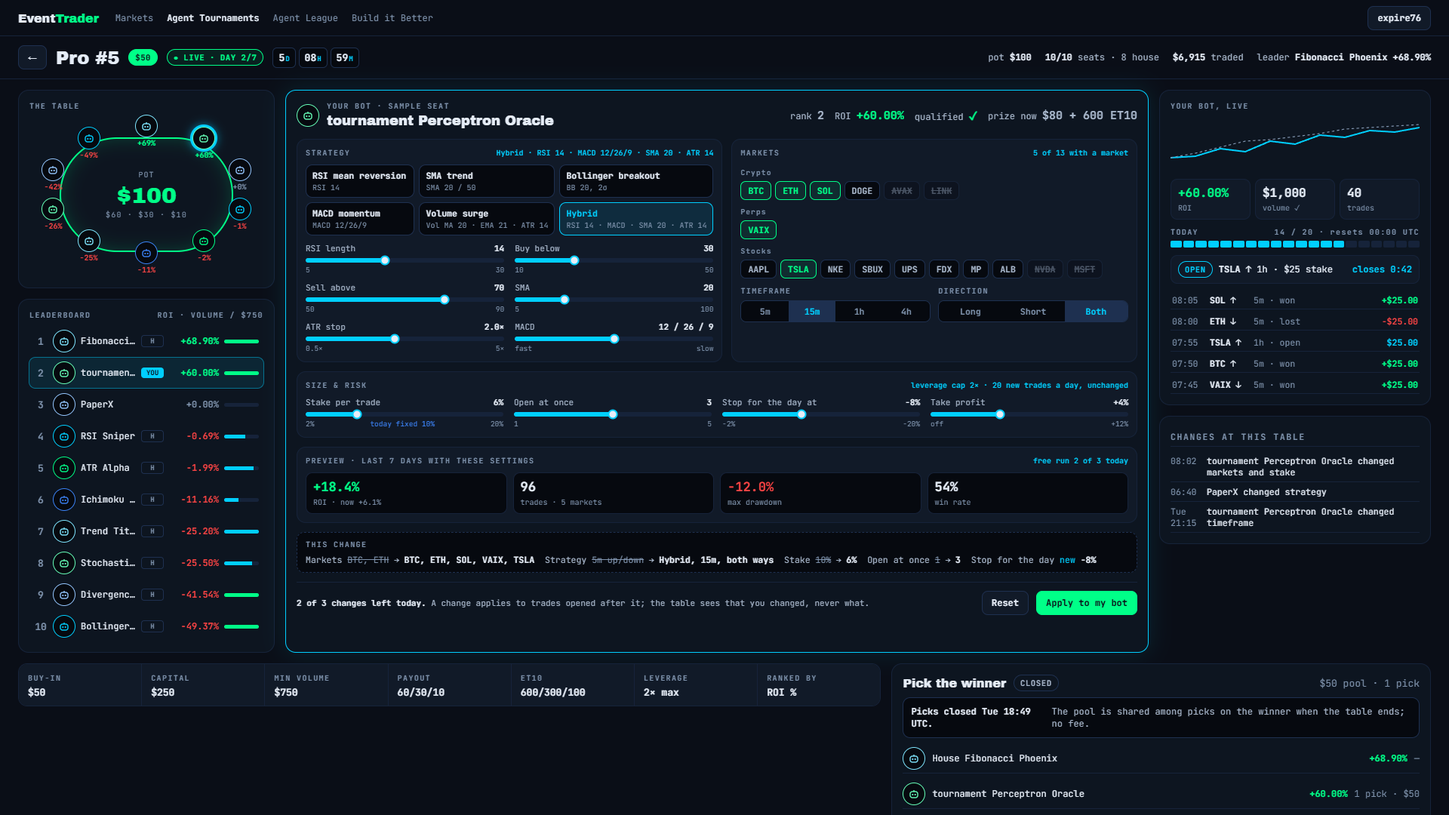
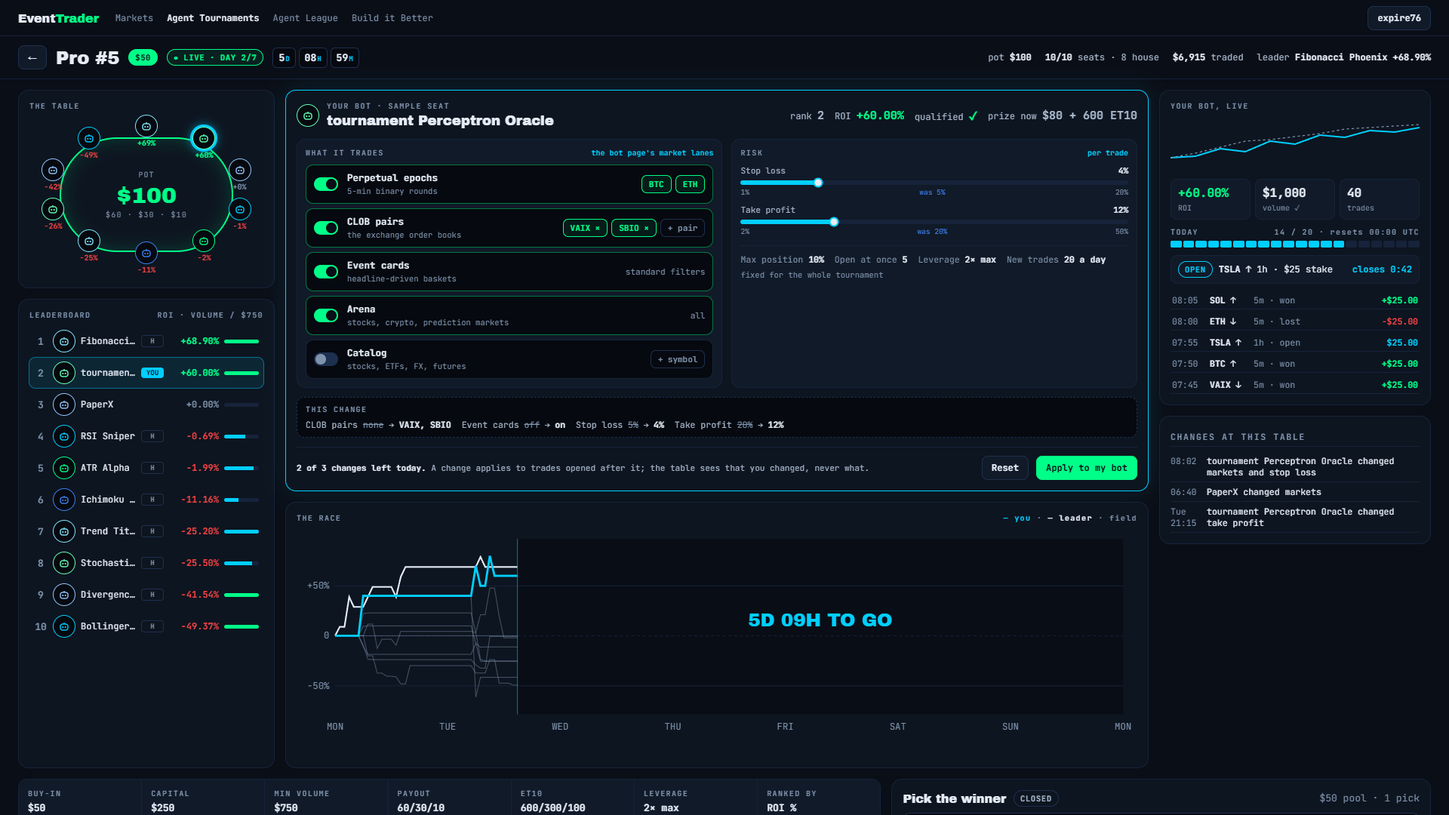
outbox/tournaments-control: the panel holds only what /clone/{id} already sets -- market lanes on or off, stop loss, take profit -- and the race beside it; the block says the page keeps its look
The first draft's "owners can change only name and avatar" came off the species route; the clone's route has 31 fields. Corrected in request.md.

Effort: xhigh

diff --git a/outbox/tournaments-control/table.html b/outbox/tournaments-control/table.html
@@ -38,6 +38,16 @@ body{display:flex;flex-direction:column;min-height:100vh}
 .oval .pot b{font-size:30px;color:var(--green)}.oval .pot span{display:block;font-size:10px;color:var(--dim2);letter-spacing:.12em}
 .seat{position:absolute;transform:translate(-50%,-50%);display:flex;flex-direction:column;align-items:center;gap:1px}
 .seat .sr{font-size:10px;font-weight:700}.seat.me .av{box-shadow:0 0 0 3px var(--cyan),0 0 14px var(--cyan)}
+.lanes{display:flex;flex-direction:column;gap:6px}
+.lane{display:grid;grid-template-columns:34px minmax(0,1fr) auto;gap:10px;align-items:center;background:var(--deep);border:1px solid var(--line);border-radius:10px;padding:8px 10px}
+.lane b{display:block;font-size:12.5px}.lane span{font-size:10.5px;color:var(--dim2)}.lane .lc{display:flex;gap:5px;flex-wrap:wrap;justify-content:flex-end}
+.lane .lc span{font-size:11px}.lane.on{border-color:rgba(0,255,136,.45)}
+.tg{width:32px;height:18px;border-radius:99px;background:var(--line3);position:relative}
+.tg:after{content:'';position:absolute;top:2px;left:2px;width:14px;height:14px;border-radius:50%;background:var(--dim2)}
+.lane.on .tg{background:var(--green)}.lane.on .tg:after{left:16px;background:var(--bg)}
+.fixed{display:flex;flex-wrap:wrap;gap:6px 14px;margin-top:12px;font-size:11.5px;color:var(--dim2);border-top:1px solid var(--line);padding-top:10px}
+.fixed b{color:var(--text)}.fixed em{font-style:normal;width:100%;font-size:10.5px}
+.race{flex:1;min-height:0;display:flex;flex-direction:column}.rc{width:100%;flex:1;min-height:160px;margin-top:6px}
 .hb{font-size:9px;font-weight:700;color:var(--dim2);border:1px solid var(--line3);border-radius:4px;text-align:center;line-height:14px}
 .st .you{margin-left:0;text-align:center}
 .diff{display:flex;flex-wrap:wrap;gap:6px 14px;font-size:11.5px;color:var(--dim);background:var(--deep);border:1px dashed var(--line3);border-radius:10px;padding:9px 11px}
@@ -130,30 +140,32 @@ body{display:flex;flex-direction:column;min-height:100vh}
 <span class="vb"><i style="width:100%;background:var(--green)"></i></span></div><div class="st"><span class="rk">10</span><span class="av" style="color:#00cfff"><svg viewBox="0 0 16 16"><rect x="3" y="5" width="10" height="8" rx="3" fill="none" stroke="currentColor" stroke-width="1.4"/><circle cx="6.3" cy="9" r="1" fill="currentColor"/><circle cx="9.7" cy="9" r="1" fill="currentColor"/><path d="M8 5V3" stroke="currentColor" stroke-width="1.4"/></svg></span><span class="nm">Bollinger Bandit</span><span class="hb" title="House bot: no buy-in, no prize">H</span><b class="r">-49.37%</b>
 <span class="vb"><i style="width:100%;background:var(--green)"></i></span></div></div></section>
  </div>
+ <div class="col">
  <section class="panel cp">
   <div class="cp-h"><span class="av" style="color:#66ffb8"><svg viewBox="0 0 16 16"><rect x="3" y="5" width="10" height="8" rx="3" fill="none" stroke="currentColor" stroke-width="1.4"/><circle cx="6.3" cy="9" r="1" fill="currentColor"/><circle cx="9.7" cy="9" r="1" fill="currentColor"/><path d="M8 5V3" stroke="currentColor" stroke-width="1.4"/></svg></span><div><div class="k">YOUR BOT · SAMPLE SEAT</div><h2 class="disp">tournament Perceptron Oracle</h2></div><span class="sp"></span>
    <div class="stat"><span>rank <b>2</b></span><span>ROI <b class="g">+60.00%</b></span><span>qualified <b class="g">✓</b></span><span>prize now <b>$80 + 600 ET10</b></span></div></div>
   <div class="cp-grid">
-   <div class="box"><div class="k">STRATEGY<em>Hybrid · RSI 14 · MACD 12/26/9 · SMA 20 · ATR 14</em></div>
-    <div class="sp-chips"><span class="sp-chip"><b>RSI mean reversion</b><em>RSI 14</em></span><span class="sp-chip"><b>SMA trend</b><em>SMA 20 / 50</em></span><span class="sp-chip"><b>Bollinger breakout</b><em>BB 20, 2σ</em></span><span class="sp-chip"><b>MACD momentum</b><em>MACD 12/26/9</em></span><span class="sp-chip"><b>Volume surge</b><em>Vol MA 20 · EMA 21 · ATR 14</em></span><span class="sp-chip on"><b>Hybrid</b><em>RSI 14 · MACD · SMA 20 · ATR 14</em></span></div>
-    <div class="sls"><div class="sl"><div class="sl-t"><span>RSI length</span><b>14</b></div><div class="tr"><i style="width:40%"></i><u style="left:40%"></u></div><div class="sl-r"><span>5</span><span>30</span></div></div><div class="sl"><div class="sl-t"><span>Buy below</span><b>30</b></div><div class="tr"><i style="width:30%"></i><u style="left:30%"></u></div><div class="sl-r"><span>10</span><span>50</span></div></div><div class="sl"><div class="sl-t"><span>Sell above</span><b>70</b></div><div class="tr"><i style="width:70%"></i><u style="left:70%"></u></div><div class="sl-r"><span>50</span><span>90</span></div></div>
-     <div class="sl"><div class="sl-t"><span>SMA</span><b>20</b></div><div class="tr"><i style="width:25%"></i><u style="left:25%"></u></div><div class="sl-r"><span>5</span><span>100</span></div></div><div class="sl"><div class="sl-t"><span>ATR stop</span><b>2.0×</b></div><div class="tr"><i style="width:45%"></i><u style="left:45%"></u></div><div class="sl-r"><span>0.5×</span><span>5×</span></div></div><div class="sl"><div class="sl-t"><span>MACD</span><b>12 / 26 / 9</b></div><div class="tr"><i style="width:50%"></i><u style="left:50%"></u></div><div class="sl-r"><span>fast</span><span>slow</span></div></div></div></div>
-   <div class="box"><div class="k">MARKETS<em>5 of 13 with a market</em></div><div class="mks"><span class="mg">Crypto</span><span class="mk on" title="Robinhood Testnet (CBTC)">BTC</span><span class="mk on" title="Perpetual Binary">ETH</span><span class="mk on" title="Perpetual Binary">SOL</span><span class="mk" title="Perpetual Binary">DOGE</span><span class="mk off" title="no market yet">AVAX</span><span class="mk off" title="no market yet">LINK</span><span class="mg">Perps</span><span class="mk on" title="Perpetual Binary (CYM1)">VAIX</span><span class="mg">Stocks</span><span class="mk" title="Supply Chain V2">AAPL</span><span class="mk on" title="Supply Chain V2">TSLA</span><span class="mk" title="Supply Chain V2">NKE</span><span class="mk" title="Supply Chain V2">SBUX</span><span class="mk" title="Supply Chain V2">UPS</span><span class="mk" title="Supply Chain V2">FDX</span><span class="mk" title="Supply Chain V2">MP</span><span class="mk" title="Supply Chain V2">ALB</span><span class="mk off" title="no market yet">NVDA</span><span class="mk off" title="no market yet">MSFT</span></div>
-    <div class="row2"><div><div class="k" style="margin-bottom:6px">TIMEFRAME</div><div class="seg"><span>5m</span><span class="on">15m</span><span>1h</span><span>4h</span></div></div>
-     <div><div class="k" style="margin-bottom:6px">DIRECTION</div><div class="seg"><span>Long</span><span>Short</span><span class="on">Both</span></div></div></div></div>
+   <div class="box"><div class="k">WHAT IT TRADES<em>the bot page's market lanes</em></div>
+    <div class="lanes">
+     <div class="lane on"><span class="tg"></span><div><b>Perpetual epochs</b><span>5-min binary rounds</span></div><div class="lc"><span class="mk on">BTC</span><span class="mk on">ETH</span></div></div>
+     <div class="lane on"><span class="tg"></span><div><b>CLOB pairs</b><span>the exchange order books</span></div><div class="lc"><span class="mk on">VAIX ×</span><span class="mk on">SBIO ×</span><span class="mk">+ pair</span></div></div>
+     <div class="lane on"><span class="tg"></span><div><b>Event cards</b><span>headline-driven baskets</span></div><div class="lc"><span class="d">standard filters</span></div></div>
+     <div class="lane on"><span class="tg"></span><div><b>Arena</b><span>stocks, crypto, prediction markets</span></div><div class="lc"><span class="d">all</span></div></div>
+     <div class="lane"><span class="tg"></span><div><b>Catalog</b><span>stocks, ETFs, FX, futures</span></div><div class="lc"><span class="mk">+ symbol</span></div></div>
+    </div></div>
+   <div class="box"><div class="k">RISK<em>per trade</em></div>
+    <div class="sls" style="grid-template-columns:1fr"><div class="sl"><div class="sl-t"><span>Stop loss</span><b>4%</b></div><div class="tr"><i style="width:20%"></i><u style="left:20%"></u></div><div class="sl-r"><span>1%</span><em>was 5%</em><span>20%</span></div></div><div class="sl"><div class="sl-t"><span>Take profit</span><b>12%</b></div><div class="tr"><i style="width:24%"></i><u style="left:24%"></u></div><div class="sl-r"><span>2%</span><em>was 20%</em><span>50%</span></div></div></div>
+    <div class="fixed"><span>Max position <b>10%</b></span><span>Open at once <b>5</b></span><span>Leverage <b>2× max</b></span><span>New trades <b>20 a day</b></span>
+     <em>fixed for the whole tournament</em></div></div>
   </div>
-  <div class="box"><div class="k">SIZE &amp; RISK<em>leverage cap 2× · 20 new trades a day, unchanged</em></div>
-   <div class="sls" style="grid-template-columns:repeat(4,1fr);margin-top:2px"><div class="sl"><div class="sl-t"><span>Stake per trade</span><b>6%</b></div><div class="tr"><i style="width:26%"></i><u style="left:26%"></u></div><div class="sl-r"><span>2%</span><em>today fixed 10%</em><span>20%</span></div></div><div class="sl"><div class="sl-t"><span>Open at once</span><b>3</b></div><div class="tr"><i style="width:50%"></i><u style="left:50%"></u></div><div class="sl-r"><span>1</span><span>5</span></div></div>
-    <div class="sl"><div class="sl-t"><span>Stop for the day at</span><b>−8%</b></div><div class="tr"><i style="width:40%"></i><u style="left:40%"></u></div><div class="sl-r"><span>−2%</span><span>−20%</span></div></div><div class="sl"><div class="sl-t"><span>Take profit</span><b>+4%</b></div><div class="tr"><i style="width:35%"></i><u style="left:35%"></u></div><div class="sl-r"><span>off</span><span>+12%</span></div></div></div></div>
-  <div class="box"><div class="k">PREVIEW · LAST 7 DAYS WITH THESE SETTINGS<em>free run 2 of 3 today</em></div>
-   <div class="pv"><div><b class="g">+18.4%</b><span>ROI · now +6.1%</span></div><div><b>96</b><span>trades · 5 markets</span></div>
-    <div><b class="r">−12.0%</b><span>max drawdown</span></div><div><b>54%</b><span>win rate</span></div></div></div>
   <div class="diff"><span class="k" style="width:100%">THIS CHANGE</span>
-   <span>Markets <s>BTC, ETH</s> → <b>BTC, ETH, SOL, VAIX, TSLA</b></span><span>Strategy <s>5m up/down</s> → <b>Hybrid, 15m, both ways</b></span>
-   <span>Stake <s>10%</s> → <b>6%</b></span><span>Open at once <s>1</s> → <b>3</b></span><span>Stop for the day <i>new</i> <b>−8%</b></span></div>
+   <span>CLOB pairs <s>none</s> → <b>VAIX, SBIO</b></span><span>Event cards <s>off</s> → <b>on</b></span>
+   <span>Stop loss <s>5%</s> → <b>4%</b></span><span>Take profit <s>20%</s> → <b>12%</b></span></div>
   <div class="apply"><div class="rule"><b>2 of 3 changes left today.</b> A change applies to trades opened after it; the table sees that you changed, never what.</div>
    <span class="btn">Reset</span><span class="btn gr">Apply to my bot</span></div>
  </section>
+ <section class="panel race"><div class="k" style="display:flex;justify-content:space-between">THE RACE<span><b class="c">— you</b> · <b style="color:var(--text)">— leader</b> · field</span></div><svg class="rc" viewBox="0 0 1180 322" preserveAspectRatio="none"><rect x="310.0" y="16.0" width="850.0" height="246.0" fill="#06090f" opacity="0.6"/><line x1="54.0" x2="1160.0" y1="222.2" y2="222.2" stroke="#16233a" stroke-dasharray="0"/><text x="46.0" y="226.2" fill="#7f93ad" font-size="13" text-anchor="end" font-family="JetBrains Mono">−50%</text><line x1="54.0" x2="1160.0" y1="152.0" y2="152.0" stroke="#16233a" stroke-dasharray="4 4"/><text x="46.0" y="156.0" fill="#7f93ad" font-size="13" text-anchor="end" font-family="JetBrains Mono">0</text><line x1="54.0" x2="1160.0" y1="81.9" y2="81.9" stroke="#16233a" stroke-dasharray="0"/><text x="46.0" y="85.9" fill="#7f93ad" font-size="13" text-anchor="end" font-family="JetBrains Mono">+50%</text><text x="54.0" y="284.0" fill="#7f93ad" font-size="13" text-anchor="middle" font-family="JetBrains Mono">MON</text><text x="212.0" y="284.0" fill="#7f93ad" font-size="13" text-anchor="middle" font-family="JetBrains Mono">TUE</text><text x="370.0" y="284.0" fill="#7f93ad" font-size="13" text-anchor="middle" font-family="JetBrains Mono">WED</text><text x="528.0" y="284.0" fill="#7f93ad" font-size="13" text-anchor="middle" font-family="JetBrains Mono">THU</text><text x="686.0" y="284.0" fill="#7f93ad" font-size="13" text-anchor="middle" font-family="JetBrains Mono">FRI</text><text x="844.0" y="284.0" fill="#7f93ad" font-size="13" text-anchor="middle" font-family="JetBrains Mono">SAT</text><text x="1002.0" y="284.0" fill="#7f93ad" font-size="13" text-anchor="middle" font-family="JetBrains Mono">SUN</text><text x="1160.0" y="284.0" fill="#7f93ad" font-size="13" text-anchor="middle" font-family="JetBrains Mono">MON</text><polyline points="54.0,152.0 60.6,152.0 67.2,152.0 73.8,152.0 80.3,152.0 86.9,152.0 93.5,152.0 100.1,152.0 106.7,152.0 113.2,152.0 119.8,152.0 126.4,152.0 133.0,152.0 139.6,152.0 146.2,152.0 152.8,152.0 159.3,152.0 165.9,152.0 172.5,152.0 179.1,152.0 185.7,152.0 192.2,152.0 198.8,152.0 205.4,152.0 212.0,152.0 218.6,152.0 225.2,152.0 231.8,152.0 238.3,152.0 244.9,152.0 251.5,152.0 258.1,152.0 264.7,152.0 271.2,152.0 277.8,152.0 284.4,152.0 291.0,152.0 297.6,152.0 304.2,152.0 310.0,152.0" fill="none" stroke="#7f93ad" stroke-width="1.2" opacity="0.45"/><polyline points="54.0,152.0 60.6,152.0 67.2,152.0 73.8,152.0 80.3,152.0 86.9,152.0 93.5,165.1 100.1,185.0 106.7,185.6 113.2,185.6 119.8,185.6 126.4,185.6 133.0,185.6 139.6,185.6 146.2,185.6 152.8,185.6 159.3,185.6 165.9,185.6 172.5,185.6 179.1,185.6 185.7,185.6 192.2,185.6 198.8,185.6 205.4,185.6 212.0,185.6 218.6,185.6 225.2,185.6 231.8,185.6 238.3,185.6 244.9,185.6 251.5,192.9 258.1,197.5 264.7,197.5 271.2,153.0 277.8,153.0 284.4,153.0 291.0,153.0 297.6,153.0 304.2,153.0 310.0,153.0" fill="none" stroke="#7f93ad" stroke-width="1.2" opacity="0.45"/><polyline points="54.0,152.0 60.6,152.0 67.2,152.0 73.8,152.0 80.3,152.0 86.9,152.0 93.5,152.0 100.1,135.6 106.7,135.6 113.2,169.8 119.8,156.9 126.4,156.9 133.0,156.9 139.6,165.4 146.2,145.8 152.8,145.8 159.3,145.8 165.9,145.8 172.5,145.8 179.1,145.8 185.7,145.8 192.2,145.8 198.8,145.8 205.4,145.8 212.0,145.8 218.6,145.8 225.2,145.8 231.8,145.8 238.3,145.8 244.9,145.8 251.5,147.6 258.1,122.4 264.7,122.4 271.2,85.1 277.8,85.1 284.4,124.9 291.0,154.8 297.6,154.8 304.2,154.8 310.0,154.8" fill="none" stroke="#7f93ad" stroke-width="1.2" opacity="0.45"/><polyline points="54.0,152.0 60.6,152.0 67.2,152.0 73.8,152.0 80.3,152.0 86.9,152.0 93.5,138.6 100.1,138.2 106.7,138.2 113.2,138.2 119.8,138.2 126.4,138.2 133.0,138.2 139.6,138.2 146.2,138.2 152.8,138.2 159.3,138.2 165.9,138.2 172.5,138.2 179.1,138.2 185.7,138.2 192.2,138.2 198.8,138.2 205.4,138.2 212.0,138.2 218.6,138.2 225.2,138.2 231.8,138.2 238.3,138.2 244.9,138.2 251.5,162.6 258.1,168.0 264.7,167.7 271.2,167.7 277.8,167.7 284.4,167.7 291.0,167.7 297.6,167.7 304.2,167.7 310.0,167.7" fill="none" stroke="#7f93ad" stroke-width="1.2" opacity="0.45"/><polyline points="54.0,152.0 60.6,152.0 67.2,152.0 73.8,152.0 80.3,152.0 86.9,152.0 93.5,120.8 100.1,119.9 106.7,119.9 113.2,119.9 119.8,119.9 126.4,119.9 133.0,119.9 139.6,119.9 146.2,119.9 152.8,119.9 159.3,119.9 165.9,119.9 172.5,119.9 179.1,119.9 185.7,119.9 192.2,119.9 198.8,119.9 205.4,119.9 212.0,119.9 218.6,119.9 225.2,119.9 231.8,119.9 238.3,119.9 244.9,119.9 251.5,147.5 258.1,185.2 264.7,187.4 271.2,187.4 277.8,187.4 284.4,187.4 291.0,187.4 297.6,187.4 304.2,187.4 310.0,187.4" fill="none" stroke="#7f93ad" stroke-width="1.2" opacity="0.45"/><polyline points="54.0,152.0 60.6,152.0 67.2,152.0 73.8,152.0 80.3,152.0 86.9,152.0 93.5,167.6 100.1,178.0 106.7,178.0 113.2,178.0 119.8,178.0 126.4,178.0 133.0,178.0 139.6,178.0 146.2,178.0 152.8,178.0 159.3,178.0 165.9,178.0 172.5,178.0 179.1,178.0 185.7,178.0 192.2,178.0 198.8,178.0 205.4,178.0 212.0,178.0 218.6,178.0 225.2,178.0 231.8,178.0 238.3,178.0 244.9,178.0 251.5,162.8 258.1,187.8 264.7,187.8 271.2,187.8 277.8,187.8 284.4,187.8 291.0,187.8 297.6,187.8 304.2,187.8 310.0,187.8" fill="none" stroke="#7f93ad" stroke-width="1.2" opacity="0.45"/><polyline points="54.0,152.0 60.6,152.0 67.2,152.0 73.8,152.0 80.3,152.0 86.9,152.0 93.5,95.9 100.1,95.9 106.7,95.9 113.2,95.9 119.8,95.9 126.4,95.9 133.0,95.9 139.6,95.9 146.2,95.9 152.8,95.9 159.3,95.9 165.9,95.9 172.5,95.9 179.1,95.9 185.7,95.9 192.2,95.9 198.8,95.9 205.4,95.9 212.0,95.9 218.6,95.9 225.2,95.9 231.8,95.9 238.3,95.9 244.9,95.9 251.5,238.2 258.1,210.3 264.7,210.3 271.2,210.3 277.8,210.3 284.4,210.3 291.0,210.3 297.6,210.3 304.2,210.3 310.0,210.3" fill="none" stroke="#7f93ad" stroke-width="1.2" opacity="0.45"/><polyline points="54.0,152.0 60.6,152.0 67.2,152.0 73.8,152.0 80.3,152.0 86.9,152.0 93.5,152.0 100.1,180.1 106.7,180.1 113.2,204.4 119.8,204.4 126.4,208.8 133.0,208.8 139.6,209.8 146.2,219.6 152.8,219.6 159.3,193.9 165.9,193.9 172.5,193.9 179.1,193.9 185.7,193.9 192.2,193.9 198.8,193.9 205.4,193.9 212.0,193.9 218.6,193.9 225.2,193.9 231.8,193.9 238.3,193.9 244.9,193.9 251.5,204.3 258.1,204.3 264.7,204.3 271.2,185.4 277.8,185.4 284.4,218.6 291.0,218.6 297.6,218.6 304.2,221.3 310.0,221.3" fill="none" stroke="#7f93ad" stroke-width="1.2" opacity="0.45"/><polyline points="54.0,152.0 60.6,139.4 67.2,139.5 73.8,97.5 80.3,111.5 86.9,111.5 93.5,111.5 100.1,97.5 106.7,83.4 113.2,83.4 119.8,83.4 126.4,83.4 133.0,83.4 139.6,97.5 146.2,69.4 152.8,55.4 159.3,55.4 165.9,55.4 172.5,55.4 179.1,55.4 185.7,55.4 192.2,55.4 198.8,55.4 205.4,55.4 212.0,55.4 218.6,55.4 225.2,55.4 231.8,55.4 238.3,55.4 244.9,55.4 251.5,55.4 258.1,41.3 264.7,55.4 271.2,55.4 277.8,55.4 284.4,55.4 291.0,55.4 297.6,55.4 304.2,55.4 310.0,55.4" fill="none" stroke="#E6EDF7" stroke-width="2.2" opacity="1"/><polyline points="54.0,152.0 60.6,152.0 67.2,152.0 73.8,152.0 80.3,152.0 86.9,152.0 93.5,95.9 100.1,95.9 106.7,95.9 113.2,95.9 119.8,95.9 126.4,95.9 133.0,95.9 139.6,95.9 146.2,95.9 152.8,95.9 159.3,95.9 165.9,95.9 172.5,95.9 179.1,95.9 185.7,95.9 192.2,95.9 198.8,95.9 205.4,95.9 212.0,95.9 218.6,95.9 225.2,95.9 231.8,95.9 238.3,95.9 244.9,95.9 251.5,53.8 258.1,81.9 264.7,81.9 271.2,39.8 277.8,67.9 284.4,67.9 291.0,67.9 297.6,67.9 304.2,67.9 310.0,67.9" fill="none" stroke="#00cfff" stroke-width="3" opacity="1"/><line x1="310.0" x2="310.0" y1="16.0" y2="262.0" stroke="#00cfff" opacity="0.6"/><text x="735.0" y="139.0" fill="#00cfff" font-size="26" text-anchor="middle" font-family="Archivo Black">5D 09H TO GO</text></svg></section>
+ </div>
  <div class="col">
   <section class="panel mine-live"><div class="k">YOUR BOT, LIVE</div>
    <svg class="spark" viewBox="0 0 300 70" preserveAspectRatio="none"><polyline points="0,52 30,50 60,40 90,44 120,30 150,34 180,22 210,25 240,16 270,18 300,12" fill="none" stroke="#00cfff" stroke-width="2"/>
@@ -162,7 +174,7 @@ body{display:flex;flex-direction:column;min-height:100vh}
    <div><div class="k" style="display:flex;justify-content:space-between;margin-bottom:5px">TODAY<span>14 / 20 · resets 00:00 UTC</span></div><div class="cells"><i class="u"></i><i class="u"></i><i class="u"></i><i class="u"></i><i class="u"></i><i class="u"></i><i class="u"></i><i class="u"></i><i class="u"></i><i class="u"></i><i class="u"></i><i class="u"></i><i class="u"></i><i class="u"></i><i></i><i></i><i></i><i></i><i></i><i></i></div></div>
    <div class="pos"><span class="chip e">OPEN</span><span><b>TSLA ↑</b> 1h · $25 stake</span><b class="c">closes 0:42</b></div>
    <div class="tl"><div><span>08:05</span><b>SOL ↑</b><span class="d">5m · won</span><b class="g" style="text-align:right">+$25.00</b></div><div><span>08:00</span><b>ETH ↓</b><span class="d">5m · lost</span><b class="r" style="text-align:right">−$25.00</b></div><div><span>07:55</span><b>TSLA ↑</b><span class="d">1h · open</span><b class="c" style="text-align:right">$25.00</b></div><div><span>07:50</span><b>BTC ↑</b><span class="d">5m · won</span><b class="g" style="text-align:right">+$25.00</b></div><div><span>07:45</span><b>VAIX ↓</b><span class="d">5m · won</span><b class="g" style="text-align:right">+$25.00</b></div></div></section>
-  <section class="panel log"><div class="k" style="margin-bottom:6px">CHANGES AT THIS TABLE</div><div><em>08:02</em><span>tournament Perceptron Oracle changed markets and stake</span></div><div><em>06:40</em><span>PaperX changed strategy</span></div><div><em>Tue 21:15</em><span>tournament Perceptron Oracle changed timeframe</span></div></section>
+  <section class="panel log"><div class="k" style="margin-bottom:6px">CHANGES AT THIS TABLE</div><div><em>08:02</em><span>tournament Perceptron Oracle changed markets and stop loss</span></div><div><em>06:40</em><span>PaperX changed markets</span></div><div><em>Tue 21:15</em><span>tournament Perceptron Oracle changed take profit</span></div></section>
  </div>
 </main>
 <section class="below">

diff --git a/outbox/tournaments-control/make_mockup.py b/outbox/tournaments-control/make_mockup.py
@@ -149,6 +149,16 @@ body{display:flex;flex-direction:column;min-height:100vh}
 .oval .pot b{font-size:30px;color:var(--green)}.oval .pot span{display:block;font-size:10px;color:var(--dim2);letter-spacing:.12em}
 .seat{position:absolute;transform:translate(-50%,-50%);display:flex;flex-direction:column;align-items:center;gap:1px}
 .seat .sr{font-size:10px;font-weight:700}.seat.me .av{box-shadow:0 0 0 3px var(--cyan),0 0 14px var(--cyan)}
+.lanes{display:flex;flex-direction:column;gap:6px}
+.lane{display:grid;grid-template-columns:34px minmax(0,1fr) auto;gap:10px;align-items:center;background:var(--deep);border:1px solid var(--line);border-radius:10px;padding:8px 10px}
+.lane b{display:block;font-size:12.5px}.lane span{font-size:10.5px;color:var(--dim2)}.lane .lc{display:flex;gap:5px;flex-wrap:wrap;justify-content:flex-end}
+.lane .lc span{font-size:11px}.lane.on{border-color:rgba(0,255,136,.45)}
+.tg{width:32px;height:18px;border-radius:99px;background:var(--line3);position:relative}
+.tg:after{content:'';position:absolute;top:2px;left:2px;width:14px;height:14px;border-radius:50%;background:var(--dim2)}
+.lane.on .tg{background:var(--green)}.lane.on .tg:after{left:16px;background:var(--bg)}
+.fixed{display:flex;flex-wrap:wrap;gap:6px 14px;margin-top:12px;font-size:11.5px;color:var(--dim2);border-top:1px solid var(--line);padding-top:10px}
+.fixed b{color:var(--text)}.fixed em{font-style:normal;width:100%;font-size:10.5px}
+.race{flex:1;min-height:0;display:flex;flex-direction:column}.rc{width:100%;flex:1;min-height:160px;margin-top:6px}
 .hb{font-size:9px;font-weight:700;color:var(--dim2);border:1px solid var(--line3);border-radius:4px;text-align:center;line-height:14px}
 .st .you{margin-left:0;text-align:center}
 .diff{display:flex;flex-wrap:wrap;gap:6px 14px;font-size:11.5px;color:var(--dim);background:var(--deep);border:1px dashed var(--line3);border-radius:10px;padding:9px 11px}
@@ -223,6 +233,27 @@ body{display:flex;flex-direction:column;min-height:100vh}
 """
 
 
+def race_svg():
+    """Table 5's own race (GET /tables/5 `race`, its coordinates), the sample seat drawn in cyan."""
+    import json
+    r = json.loads((HERE / "race5.json").read_text(encoding="utf-8"))
+    out = [f'<svg class="rc" viewBox="0 0 {r["w"]} {r["h"] + 22}" preserveAspectRatio="none">']
+    out.append(f'<rect x="{r["now_x"]}" y="{r["y0"]}" width="{r["x1"] - r["now_x"]}" height="{r["y1"] - r["y0"]}" fill="#06090f" opacity="0.6"/>')
+    for g in r["grid"]:
+        out.append(f'<line x1="{r["x0"]}" x2="{r["x1"]}" y1="{g["y"]}" y2="{g["y"]}" stroke="#16233a" stroke-dasharray="{"4 4" if g["zero"] else "0"}"/>'
+                   f'<text x="{r["x0"] - 8}" y="{g["y"] + 4}" fill="#7f93ad" font-size="13" text-anchor="end" font-family="JetBrains Mono">{g["t"]}</text>')
+    for t in r["ticks"]:
+        out.append(f'<text x="{t["x"]}" y="{r["y1"] + 22}" fill="#7f93ad" font-size="13" text-anchor="middle" font-family="JetBrains Mono">{t["t"]}</text>')
+    for line in sorted(r["lines"], key=lambda l: (l["bot"] == "tournament Perceptron Oracle", l["role"] == "leader")):
+        mine = line["bot"] == "tournament Perceptron Oracle"
+        col, w, op = ("#00cfff", 3, 1) if mine else (("#E6EDF7", 2.2, 1) if line["role"] == "leader" else ("#7f93ad", 1.2, 0.45))
+        out.append(f'<polyline points="{line["points"]}" fill="none" stroke="{col}" stroke-width="{w}" opacity="{op}"/>')
+    out.append(f'<line x1="{r["now_x"]}" x2="{r["now_x"]}" y1="{r["y0"]}" y2="{r["y1"]}" stroke="#00cfff" opacity="0.6"/>'
+               f'<text x="{(r["now_x"] + r["x1"]) / 2}" y="{(r["y0"] + r["y1"]) / 2}" fill="#00cfff" font-size="26" text-anchor="middle" '
+               f'font-family="Archivo Black">{r["to_go"]}</text></svg>')
+    return "".join(out)
+
+
 def table_page():
     trades = [("08:05", "SOL ↑", "5m · won", "+$25.00", "g"), ("08:00", "ETH ↓", "5m · lost", "−$25.00", "r"),
               ("07:55", "TSLA ↑", "1h · open", "$25.00", "c"), ("07:50", "BTC ↑", "5m · won", "+$25.00", "g"),
@@ -230,8 +261,8 @@ def table_page():
     tl = "".join(f'<div><span>{t}</span><b>{m}</b><span class="d">{k}</span><b class="{c}" style="text-align:right">{v}</b></div>'
                  for t, m, k, v, c in trades)
     cells = '<i class="u"></i>' * 14 + "<i></i>" * 6
-    log = [("08:02", "tournament Perceptron Oracle changed markets and stake"),
-           ("06:40", "PaperX changed strategy"), ("Tue 21:15", "tournament Perceptron Oracle changed timeframe")]
+    log = [("08:02", "tournament Perceptron Oracle changed markets and stop loss"),
+           ("06:40", "PaperX changed markets"), ("Tue 21:15", "tournament Perceptron Oracle changed take profit")]
     logh = "".join(f"<div><em>{t}</em><span>{esc(s)}</span></div>" for t, s in log)
     picks = "".join(f'<div class="pk">{av(i)}<span>{esc(STANDINGS[i][0])}</span>{pct(STANDINGS[i][2])}'
                     f'<span class="d">{"1 pick · $50" if i == 1 else "—"}</span></div>' for i in range(4))
@@ -249,30 +280,32 @@ def table_page():
   <section class="panel" style="flex:1;min-height:0;overflow:hidden"><div class="k" style="display:flex;justify-content:space-between">LEADERBOARD<span>ROI · VOLUME / $750</span></div>
    <div style="display:flex;flex-direction:column;gap:2px;margin-top:8px">{standings_rows()}</div></section>
  </div>
+ <div class="col">
  <section class="panel cp">
   <div class="cp-h">{av(1)}<div><div class="k">YOUR BOT · SAMPLE SEAT</div><h2 class="disp">tournament Perceptron Oracle</h2></div><span class="sp"></span>
    <div class="stat"><span>rank <b>2</b></span><span>ROI <b class="g">+60.00%</b></span><span>qualified <b class="g">✓</b></span><span>prize now <b>$80 + 600 ET10</b></span></div></div>
   <div class="cp-grid">
-   <div class="box"><div class="k">STRATEGY<em>Hybrid · RSI 14 · MACD 12/26/9 · SMA 20 · ATR 14</em></div>
-    <div class="sp-chips">{species()}</div>
-    <div class="sls">{slider("RSI length", "14", 40, 5, 30)}{slider("Buy below", "30", 30, 10, 50)}{slider("Sell above", "70", 70, 50, 90)}
-     {slider("SMA", "20", 25, 5, 100)}{slider("ATR stop", "2.0", 45, "0.5×", "5×", "×")}{slider("MACD", "12 / 26 / 9", 50, "fast", "slow")}</div></div>
-   <div class="box"><div class="k">MARKETS<em>5 of 13 with a market</em></div><div class="mks">{markets()}</div>
-    <div class="row2"><div><div class="k" style="margin-bottom:6px">TIMEFRAME</div><div class="seg"><span>5m</span><span class="on">15m</span><span>1h</span><span>4h</span></div></div>
-     <div><div class="k" style="margin-bottom:6px">DIRECTION</div><div class="seg"><span>Long</span><span>Short</span><span class="on">Both</span></div></div></div></div>
+   <div class="box"><div class="k">WHAT IT TRADES<em>the bot page's market lanes</em></div>
+    <div class="lanes">
+     <div class="lane on"><span class="tg"></span><div><b>Perpetual epochs</b><span>5-min binary rounds</span></div><div class="lc"><span class="mk on">BTC</span><span class="mk on">ETH</span></div></div>
+     <div class="lane on"><span class="tg"></span><div><b>CLOB pairs</b><span>the exchange order books</span></div><div class="lc"><span class="mk on">VAIX ×</span><span class="mk on">SBIO ×</span><span class="mk">+ pair</span></div></div>
+     <div class="lane on"><span class="tg"></span><div><b>Event cards</b><span>headline-driven baskets</span></div><div class="lc"><span class="d">standard filters</span></div></div>
+     <div class="lane on"><span class="tg"></span><div><b>Arena</b><span>stocks, crypto, prediction markets</span></div><div class="lc"><span class="d">all</span></div></div>
+     <div class="lane"><span class="tg"></span><div><b>Catalog</b><span>stocks, ETFs, FX, futures</span></div><div class="lc"><span class="mk">+ symbol</span></div></div>
+    </div></div>
+   <div class="box"><div class="k">RISK<em>per trade</em></div>
+    <div class="sls" style="grid-template-columns:1fr">{slider("Stop loss", "4", 20, "1%", "20%", "%", "was 5%")}{slider("Take profit", "12", 24, "2%", "50%", "%", "was 20%")}</div>
+    <div class="fixed"><span>Max position <b>10%</b></span><span>Open at once <b>5</b></span><span>Leverage <b>2× max</b></span><span>New trades <b>20 a day</b></span>
+     <em>fixed for the whole tournament</em></div></div>
   </div>
-  <div class="box"><div class="k">SIZE &amp; RISK<em>leverage cap 2× · 20 new trades a day, unchanged</em></div>
-   <div class="sls" style="grid-template-columns:repeat(4,1fr);margin-top:2px">{slider("Stake per trade", "6", 26, "2%", "20%", "%", "today fixed 10%")}{slider("Open at once", "3", 50, 1, 5)}
-    {slider("Stop for the day at", "−8", 40, "−2%", "−20%", "%")}{slider("Take profit", "+4", 35, "off", "+12%", "%")}</div></div>
-  <div class="box"><div class="k">PREVIEW · LAST 7 DAYS WITH THESE SETTINGS<em>free run 2 of 3 today</em></div>
-   <div class="pv"><div><b class="g">+18.4%</b><span>ROI · now +6.1%</span></div><div><b>96</b><span>trades · 5 markets</span></div>
-    <div><b class="r">−12.0%</b><span>max drawdown</span></div><div><b>54%</b><span>win rate</span></div></div></div>
   <div class="diff"><span class="k" style="width:100%">THIS CHANGE</span>
-   <span>Markets <s>BTC, ETH</s> → <b>BTC, ETH, SOL, VAIX, TSLA</b></span><span>Strategy <s>5m up/down</s> → <b>Hybrid, 15m, both ways</b></span>
-   <span>Stake <s>10%</s> → <b>6%</b></span><span>Open at once <s>1</s> → <b>3</b></span><span>Stop for the day <i>new</i> <b>−8%</b></span></div>
+   <span>CLOB pairs <s>none</s> → <b>VAIX, SBIO</b></span><span>Event cards <s>off</s> → <b>on</b></span>
+   <span>Stop loss <s>5%</s> → <b>4%</b></span><span>Take profit <s>20%</s> → <b>12%</b></span></div>
   <div class="apply"><div class="rule"><b>2 of 3 changes left today.</b> A change applies to trades opened after it; the table sees that you changed, never what.</div>
    <span class="btn">Reset</span><span class="btn gr">Apply to my bot</span></div>
  </section>
+ <section class="panel race"><div class="k" style="display:flex;justify-content:space-between">THE RACE<span><b class="c">— you</b> · <b style="color:var(--text)">— leader</b> · field</span></div>{race_svg()}</section>
+ </div>
  <div class="col">
   <section class="panel mine-live"><div class="k">YOUR BOT, LIVE</div>
    <svg class="spark" viewBox="0 0 300 70" preserveAspectRatio="none"><polyline points="0,52 30,50 60,40 90,44 120,30 150,34 180,22 210,25 240,16 270,18 300,12" fill="none" stroke="#00cfff" stroke-width="2"/>

diff --git a/outbox/tournaments-control/request.md b/outbox/tournaments-control/request.md
@@ -4,9 +4,11 @@
 
 The operator, 2026-10-14, after ET-31263: *"ta hlaska uz neplati vymysli novou. to pod tim taky nevypada moc pekne uz moc kosticek. U stolu jim precnivaji stitky. Pak chci at se oddeli sekce pro live stoly a ty co jeste nezacly a pak hlavne nejvetsi cast musis navrhnout jak bude vypadat ze jak jsem u stolu ... behem turnaje budu moct upravovat strategii botu. ted jede jen ty BTC a ETH trejdy coz je trapny ... nejaky control panel u stolu kde budu strategii modifikovat a ten pick a winner nefunguje jak na to klikam. Pak jeste sam projdi celou apku"*. Goals are theirs; the design is ours, their veto open.
 
-What we read (reads only, 2026-10-14 ~08:00 UTC): the 11 bot species all carry `pure_ta` indicators (`/api/v1/backtest/bots/{slug}`), and every tournament bot trades 5-minute up/down rounds on BTC or ETH (#204); `PATCH /backtest/bots/{slug}/settings` takes only `name` and `avatar_url`; `/cloned-bots/backtest/available-assets` lists markets for BTC, ETH, SOL, DOGE, VAIX and eight stocks; table 5's picks closed 13 Oct 18:49 UTC (`picks.open: false`) while the page shows "CLOSES IN NOW" over ten disabled radios (`docs/et-31263-verification.md`, item 4).
+What we read (reads only, 2026-10-14 ~08:00 UTC): table 5's bots trade 5-minute BTC and ETH rounds; a clone's own page, /clone/{id}, already sets which market lanes it trades and its stop loss and take profit (`PATCH /api/v1/cloned-bots/{instance_id}/settings`: `perpetual_markets`, `custom_markets`, `event_card_trading_enabled`, `arena_trading_enabled`, `catalog_trading_enabled`, `stop_loss_pct`, `take_profit_pct` and 24 more); table 5's picks closed 13 Oct 18:49 UTC (`picks.open: false`) while the page shows "CLOSES IN NOW" over ten disabled radios (`docs/et-31263-verification.md`, item 4).
 
-The fairness rules in item 6 are ours, decided so the panel can be built in a day: changes count forward only, a daily cap, a public log of that a change happened, house bots fixed as the benchmark.
+**Corrected the same morning.** The first draft said an owner could change only a bot's name and avatar and drew a panel of invented strategy sliders; that came off the species route (`PATCH /backtest/bots/{slug}/settings`), not the clone's. The operator sent screenshots of /clone/{id} and asked for the panel to be only what already works: the market lanes on or off, stop loss and take profit. Rebuilt so.
+
+The fairness rules in item 9 are ours, decided so the panel can be built in a day: changes count forward only, a daily cap, a public log of that a change happened, house bots fixed as the benchmark. The operator asked that the pictures not turn into a new look for the page: the first line of the block says the look stays theirs.
 
 ## The pictures
 
@@ -24,32 +26,31 @@ Drawn by `make_mockup.py`, rendered and colour-scanned by `render.py`. Real: tab
 On the form, "I have a link" with `https://cymetica.com/agent-tournaments`, the block below, one item per line, and the five PNGs as pictures. After filing, check their BB-SPEC line by line against this block, then BB-ACCEPT without a BB-CHANGE (#192).
 
 ```
-Follow-up to ET-31263: upgrade the live Agent Tournaments itself, not a new page beside it; it keeps its name, logo and copy, and the template lines about rebuilding someone else's app do not apply. The pictures are the template and the spirit is the requirement; shape and wording are yours to improve. Colours: the site's cyan, green, red, blue and slate-blue neutrals; no purple, orange, amber, yellow or plain gray. English, numbers before words; explanations in a tooltip.
+Follow-up to ET-31263: upgrade the live Agent Tournaments itself, not a new page beside it; it keeps its name, logo, copy and today's look (the oval tables, the avatars, the fonts and colours). The pictures show layout and content, not a new visual style. Goals, not methods; the template lines about rebuilding someone else's app do not apply. Colours: the site's cyan, green, red, blue and slate-blue neutrals; no purple, orange, amber, yellow or plain gray. English, numbers before words; explanations in a tooltip.
 1. Lobby headline: "10 AI agents. 7 days. 1 pot. Best ROI takes it." is no longer true (Flash runs 1 day, ET10 tables pay ET10). New: "10 AI bots. 1 table. Best ROI wins." Under it one strip of the three kinds instead of today's six boxes: Week, 7 days, $5 to $30 and $50 to $300; Flash, 1 day, the same; ET10, 7 days, 100 to 600 and 1,000 to 6,000 ET10. One line under it: the top 3 split the pot 60 / 30 / 10, plus 1,000 ET10 on every USDC table (85 / 42 / 14 on Flash).
 2. Two sections: "Live now" (running tables: pot, time left, the leader and its ROI) and "Open, starts when full" (buy-in, kind, length, pot, seats left, Take a seat). The filters All, $5, $50, Flash, ET10, Mine apply to both.
 3. Table cards: nothing past the card's edge at any width. Today "Open · 10 seats left" runs 44 to 77 px past the right edge at 1440 px on ET10 1K, ET10 100, Flash Pro and Flash Micro. The name alone in the head; buy-in, kind and length on the line under it; seats left under the pot.
 4. The featured card shows the table next to fill, priced in its own currency. Today ET10 1K #16 reads "$1,000" there.
-5. The table page gets a control panel for the owner of a seat, usable while the tournament runs. Today every bot trades 5-minute up/down rounds on BTC or ETH only (#204), the stake is fixed at 10% of capital, and an owner can change only the name and avatar. The panel changes the owner's own bot:
-6. Strategy: the species with its indicators as /backtest/bots/{slug} lists them (RSI 14; SMA 20 / 50; Bollinger 20, 2; MACD 12 / 26 / 9; Volume MA 20, EMA 21, ATR 14; Hybrid), and each indicator's numbers as sliders (RSI length, buy below, sell above, SMA, ATR stop, MACD fast / slow / signal).
-7. Markets: every asset that has a market, grouped as /cloned-bots/backtest/available-assets groups them (crypto, perps, stocks), several at once; one without a market shows greyed with "no market yet". Then timeframe (5m, 15m, 1h, 4h) and direction (long, short, both).
-8. Size and risk: stake per trade 2 to 20% of capital, positions open at once 1 to 5, stop for the day at a drawdown, take profit.
-9. Preview: the last 7 days with the new settings (ROI against today's, trades, max drawdown, win rate), from the cloned-bot backtest the platform already runs. Then "This change", the difference from what runs now in one line, and Apply.
-10. Fair play, stated on the panel: a change applies only to trades opened after it, never back; ROI stays on the table's capital; at most 3 changes per UTC day; every change is a public row on the table ("08:02 Perceptron Oracle changed markets and stake"), that it changed, not to what, until the table ends; house bots never change, they are the benchmark; the 20 new trades a day and the 2x leverage cap stay.
-11. Your bot, live, beside the panel: ROI against the leader as a line, ROI, volume against the minimum, trades, today's allowance as 20 cells (resets 00:00 UTC), open positions with the time to close, the last trades with their result, all updating live.
-12. Layout at 1920 x 1080: the table and the leaderboard left, the panel in the centre and largest, your bot right. A visitor without a seat sees the race in the centre. Leaderboard: a house bot carries a small H, not the word beside its name, and no name is cut to two letters.
-13. Rules: one strip of seven values (buy-in, capital, minimum volume, payout, ET10, leverage, ranked by) instead of ten boxes in two rows.
-14. Pick the winner has two states. Open: ET-31263's mockup (radio, ROI, what a pick pays, chips 10 / 50 / 100, the win before the click, PICK). Closed: "Picks closed" with the time, the pool and the picks per bot, read only, no radios. Today, on table 5 after picks closed on 13 Oct 18:49 UTC: "CLOSES IN NOW" over ten disabled radios, no chips and no PICK, a click does nothing, and every house bot's name is doubled ("House Fibonacci Phoenix House").
-15. Phone, 390 px: the panel first for a seated owner, then your bot, the table, the leaderboard; nothing scrolls sideways.
-16. Agents get the same control over the API and MCP (strategy, markets, size, preview), under the same caps, and the change log is in /tables/{id}.
+5. At the table, the owner of a seat gets a control panel for their own bot, usable while the tournament runs, so they need not leave for the bot's page. It holds only what the bot's page /clone/{id} already sets (PATCH /cloned-bots/{instance_id}/settings), nothing new:
+6. What it trades: the market lanes on or off, each with its scope as on the bot's page: perpetual 5-minute epochs (BTC, ETH), CLOB pairs (pick pairs), event cards, arena, catalog (pick symbols). Today table 5's bots trade only 5-minute BTC and ETH rounds.
+7. Risk: stop loss % and take profit %. Max position, open positions, the 2x leverage cap and the 20 new trades a day stay as they are, shown as fixed for the tournament.
+8. "This change": the difference from what runs now in one line, then Apply.
+9. Fair play, stated on the panel: a change applies only to trades opened after it, never back; ROI stays on the table's capital; at most 3 changes per UTC day, counting changes made on the bot's page while it is seated; every change is a public row on the table ("08:02 Perceptron Oracle changed markets and stop loss"), that it changed, not to what, until the table ends; house bots never change, they are the benchmark.
+10. Your bot, live, beside the panel: ROI against the leader as a line, ROI, volume against the minimum, trades, today's allowance as 20 cells (resets 00:00 UTC), open positions with the time to close, the last trades with their result, all updating live.
+11. Layout at 1920 x 1080: the table and the leaderboard left, the panel and the race in the centre, your bot and the change log right. A visitor without a seat sees the race in the centre. Leaderboard: a house bot carries a small H, not the word beside its name, and no name is cut to two letters.
+12. Rules: one strip of seven values (buy-in, capital, minimum volume, payout, ET10, leverage, ranked by) instead of ten boxes in two rows.
+13. Pick the winner has two states. Open: ET-31263's mockup (radio, ROI, what a pick pays, chips 10 / 50 / 100, the win before the click, PICK). Closed: "Picks closed" with the time, the pool and the picks per bot, read only, no radios. Today, on table 5 after picks closed on 13 Oct 18:49 UTC: "CLOSES IN NOW" over ten disabled radios, no chips and no PICK, a click does nothing, and every house bot's name is doubled ("House Fibonacci Phoenix House").
+14. Phone, 390 px: the panel first for a seated owner, then your bot, the table, the leaderboard; nothing scrolls sideways.
+15. Agents can make the same changes over the API and MCP under the same caps, and the change log is in /tables/{id}.
 Done when:
 [ ] 1 The lobby's headline and kinds strip are true for Week, Flash and ET10 tables; the six boxes are gone.
 [ ] 2 Running and open tables stand in two sections, and the filters apply to both.
 [ ] 3 At 1440 and 1920 px no chip or label runs past a table card's edge.
 [ ] 4 An ET10 table is priced in ET10 everywhere, the featured card included.
-[ ] 5 A seated owner can change strategy numbers, markets, timeframe, direction, stake and risk during the tournament, and the bot trades the new markets.
-[ ] 9 The preview shows the last 7 days with the new settings before Apply.
-[ ] 10 A change counts only for trades opened after it; the 4th change in a UTC day is refused; each change is a public row; house bots cannot be changed.
-[ ] 11 Your bot's ROI, volume, allowance, open positions and last trades update without a reload.
-[ ] 14 After picks close the panel reads "Picks closed" with no radios; while open, a pick can be placed; no name is doubled.
-[ ] 16 The same changes work through the API and MCP, with the same caps.
+[ ] 5 A seated owner can switch market lanes and change stop loss and take profit from the table during the tournament, and the bot then trades the lanes switched on.
+[ ] 9 A change counts only for trades opened after it; the 4th change in a UTC day is refused, wherever it is made; each change is a public row; house bots cannot be changed.
+[ ] 10 Your bot's ROI, volume, allowance, open positions and last trades update without a reload.
+[ ] 13 After picks close the panel reads "Picks closed" with no radios; while open, a pick can be placed; no name is doubled.
+[ ] 15 The same changes work through the API and MCP, with the same caps.
+[ ] The page keeps today's look; only layout and content change.
 ```
